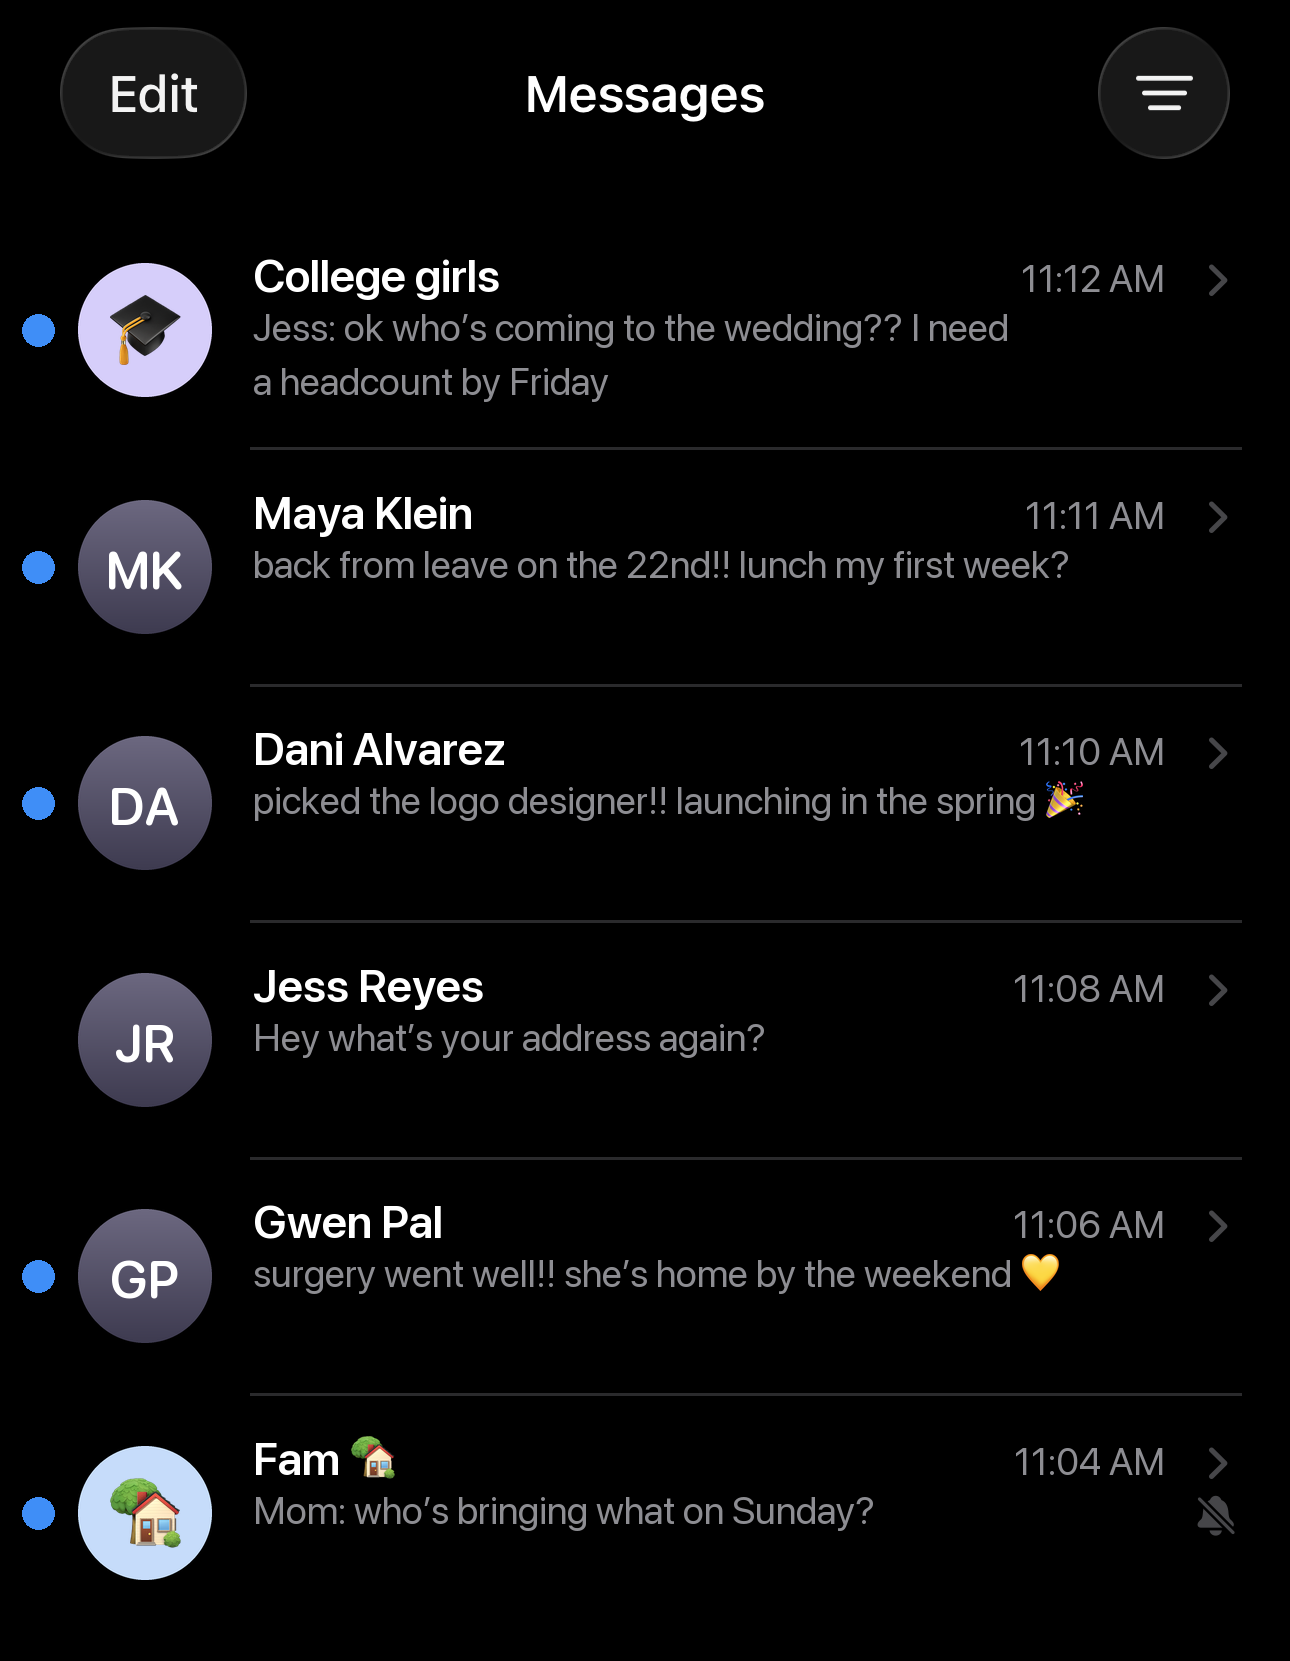
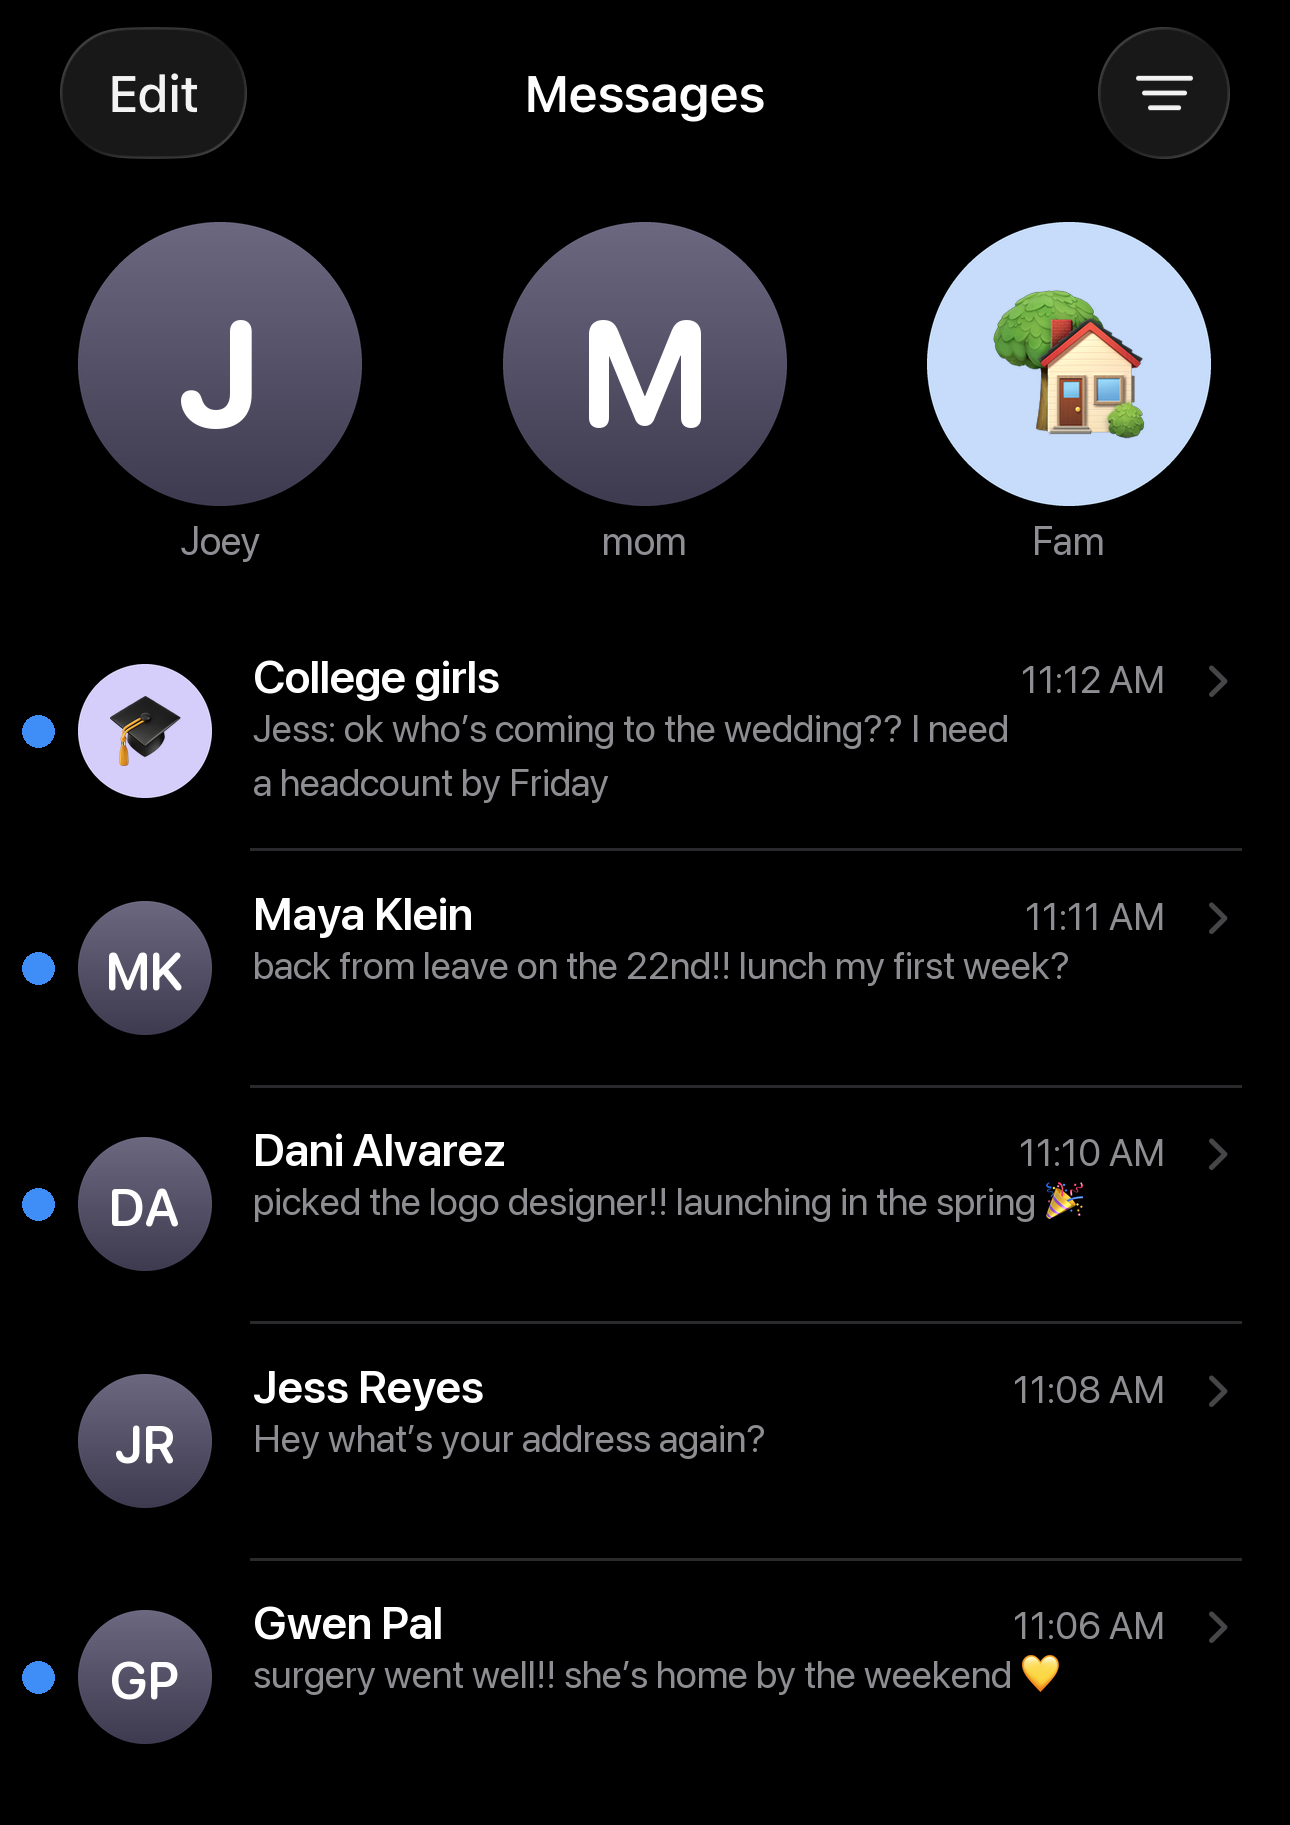
Inbox: pinned row (Joey, mom, Fam) back; inbox is the large centerpiece with the other screenshots on its edges

diff --git a/index.html b/index.html
@@ -135,7 +135,9 @@
     .problem.stage-on .grid { position: sticky; top: env(safe-area-inset-top, 0px); height: 100vh; }
   }
 
-  .mess { position: relative; height: 440px; }
+  .mess { position: relative; height: 600px; }
+  /* The inbox is the centerpiece; the smaller screenshots sit on top of its edges. */
+  .scrap--text, .scrap--dm, .scrap--notes { z-index: 2; }
   .scrap { position: absolute; will-change: transform, opacity; }
   /* Inner layer carries the base tilt + gentle drift; the outer layer takes the scroll-driven slip. */
   .scrap-in {
@@ -149,7 +151,7 @@
   .when { font-size: .7rem; color: #a79c90; }
 
   /* Messages */
-  .scrap--text { top: 0; left: 0; width: 58%; }
+  .scrap--text { top: 2%; right: 0; left: auto; width: 56%; }
   /* A real Messages screenshot (dark mode). */
   .scrap--text .scrap-in { --r: -3deg; padding: 0; overflow: hidden; background: #000; border-color: #000; }
   .scrap--text .scrap-in img { display: block; width: 100%; height: auto; }
@@ -158,7 +160,7 @@
   .scrap--text .when { display: block; margin-top: 6px; }
 
   /* Instagram DM */
-  .scrap--dm { top: 2%; right: 4%; width: 22%; }
+  .scrap--dm { top: 0; left: 0; right: auto; width: 18%; }
   /* A real Instagram screenshot: the DM icon with 13 unread. */
   .scrap--dm .scrap-in { --r: 4deg; padding: 0; overflow: hidden; animation-delay: -2s; background: #000; border-color: #000; }
   .scrap--dm .scrap-in img { display: block; width: 100%; height: auto; }
@@ -169,7 +171,7 @@
   .scrap--dm .when { display: block; margin-top: 6px; text-align: right; }
 
   /* Notes */
-  .scrap--notes { top: 52%; right: 0; left: auto; width: 60%; }
+  .scrap--notes { top: 74%; right: 0; left: auto; width: 62%; }
   /* A real Notes screenshot (dark mode), cropped to the note. */
   .scrap--notes .scrap-in img { display: block; width: 100%; height: auto; }
   .scrap--notes .scrap-in {
@@ -192,7 +194,7 @@
   .tape { position: absolute; top: -10px; left: 50%; width: 64px; height: 22px; transform: translateX(-50%) rotate(-4deg); background: rgba(255,255,255,.55); border: 1px solid rgba(43,36,32,.06); }
 
   /* Group chat */
-  .scrap--group { top: 22%; left: 4%; bottom: auto; width: 36%; }
+  .scrap--group { top: 4%; left: 4%; bottom: auto; width: 78%; z-index: 0; }
   /* A real Messages inbox screenshot, with names and messages swapped for the site's story. */
   .scrap--group .scrap-in { --r: -3deg; animation-delay: -3s; padding: 0; overflow: hidden; background: #000; border-color: #000; }
   .scrap--group .scrap-in img { display: block; width: 100%; height: auto; }
@@ -342,11 +344,11 @@
     .feature { padding-block: 24px; }
     .moment-grid { grid-template-columns: 1fr; }
     .moment img { width: 92px; height: 92px; }
-    .mess { height: 460px; }
-    .scrap--text { top: 0; left: 0; width: 70%; }
-    .scrap--dm { top: 0; right: 0; width: 26%; }
-    .scrap--notes { top: 58%; right: 0; left: auto; width: 72%; }
-    .scrap--group { top: 18%; left: 0; bottom: auto; width: 44%; }
+    .mess { height: 560px; }
+    .scrap--text { top: 1%; right: 0; left: auto; width: 66%; }
+    .scrap--dm { top: 0; left: 0; right: auto; width: 20%; }
+    .scrap--notes { top: 76%; right: 0; left: auto; width: 74%; }
+    .scrap--group { top: 7%; left: 3%; bottom: auto; width: 84%; }
     .cta img { width: 120px; }
   }
   @media (prefers-reduced-motion: reduce) {
